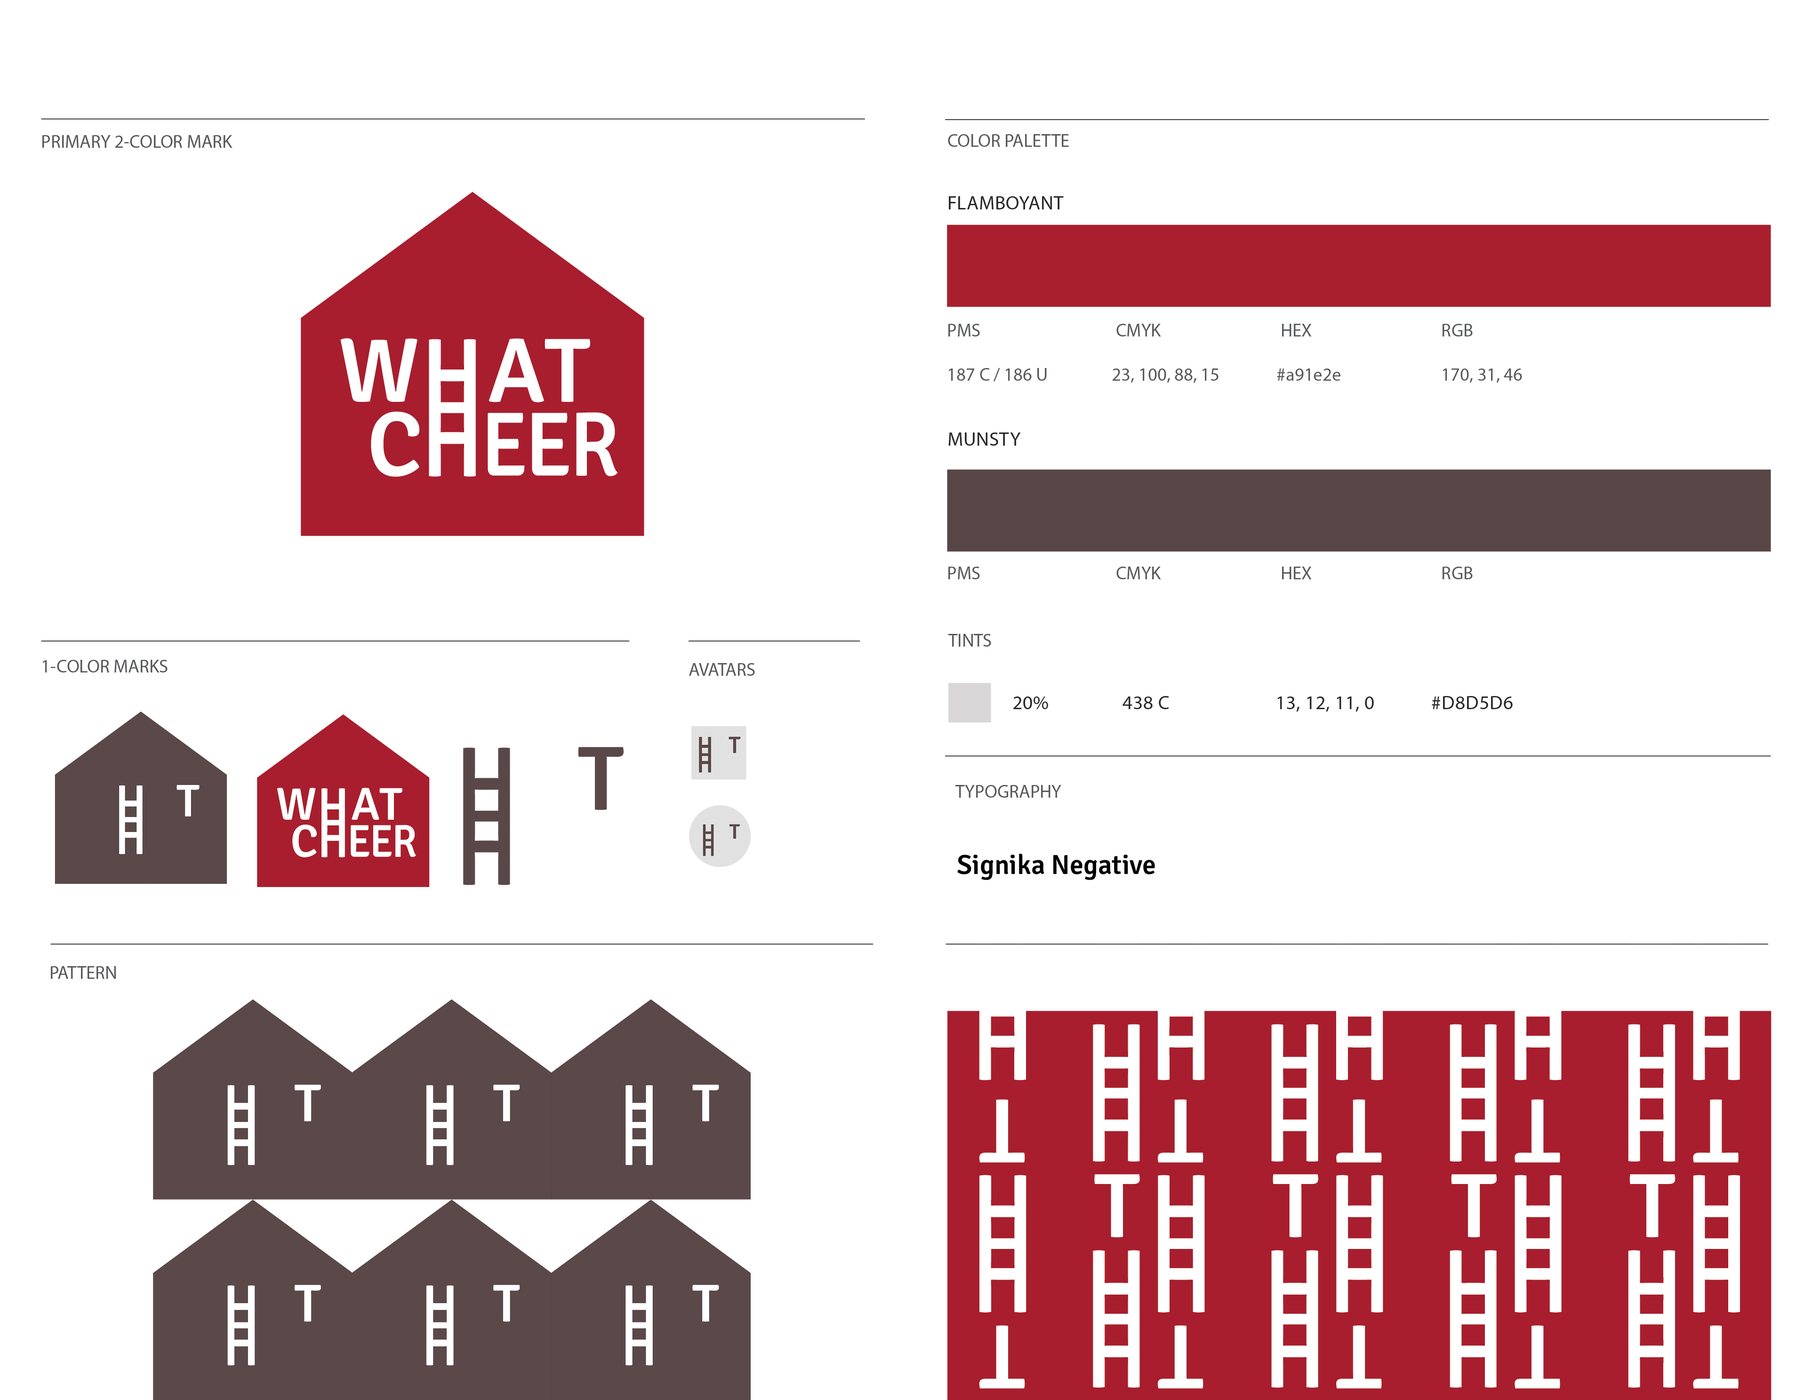
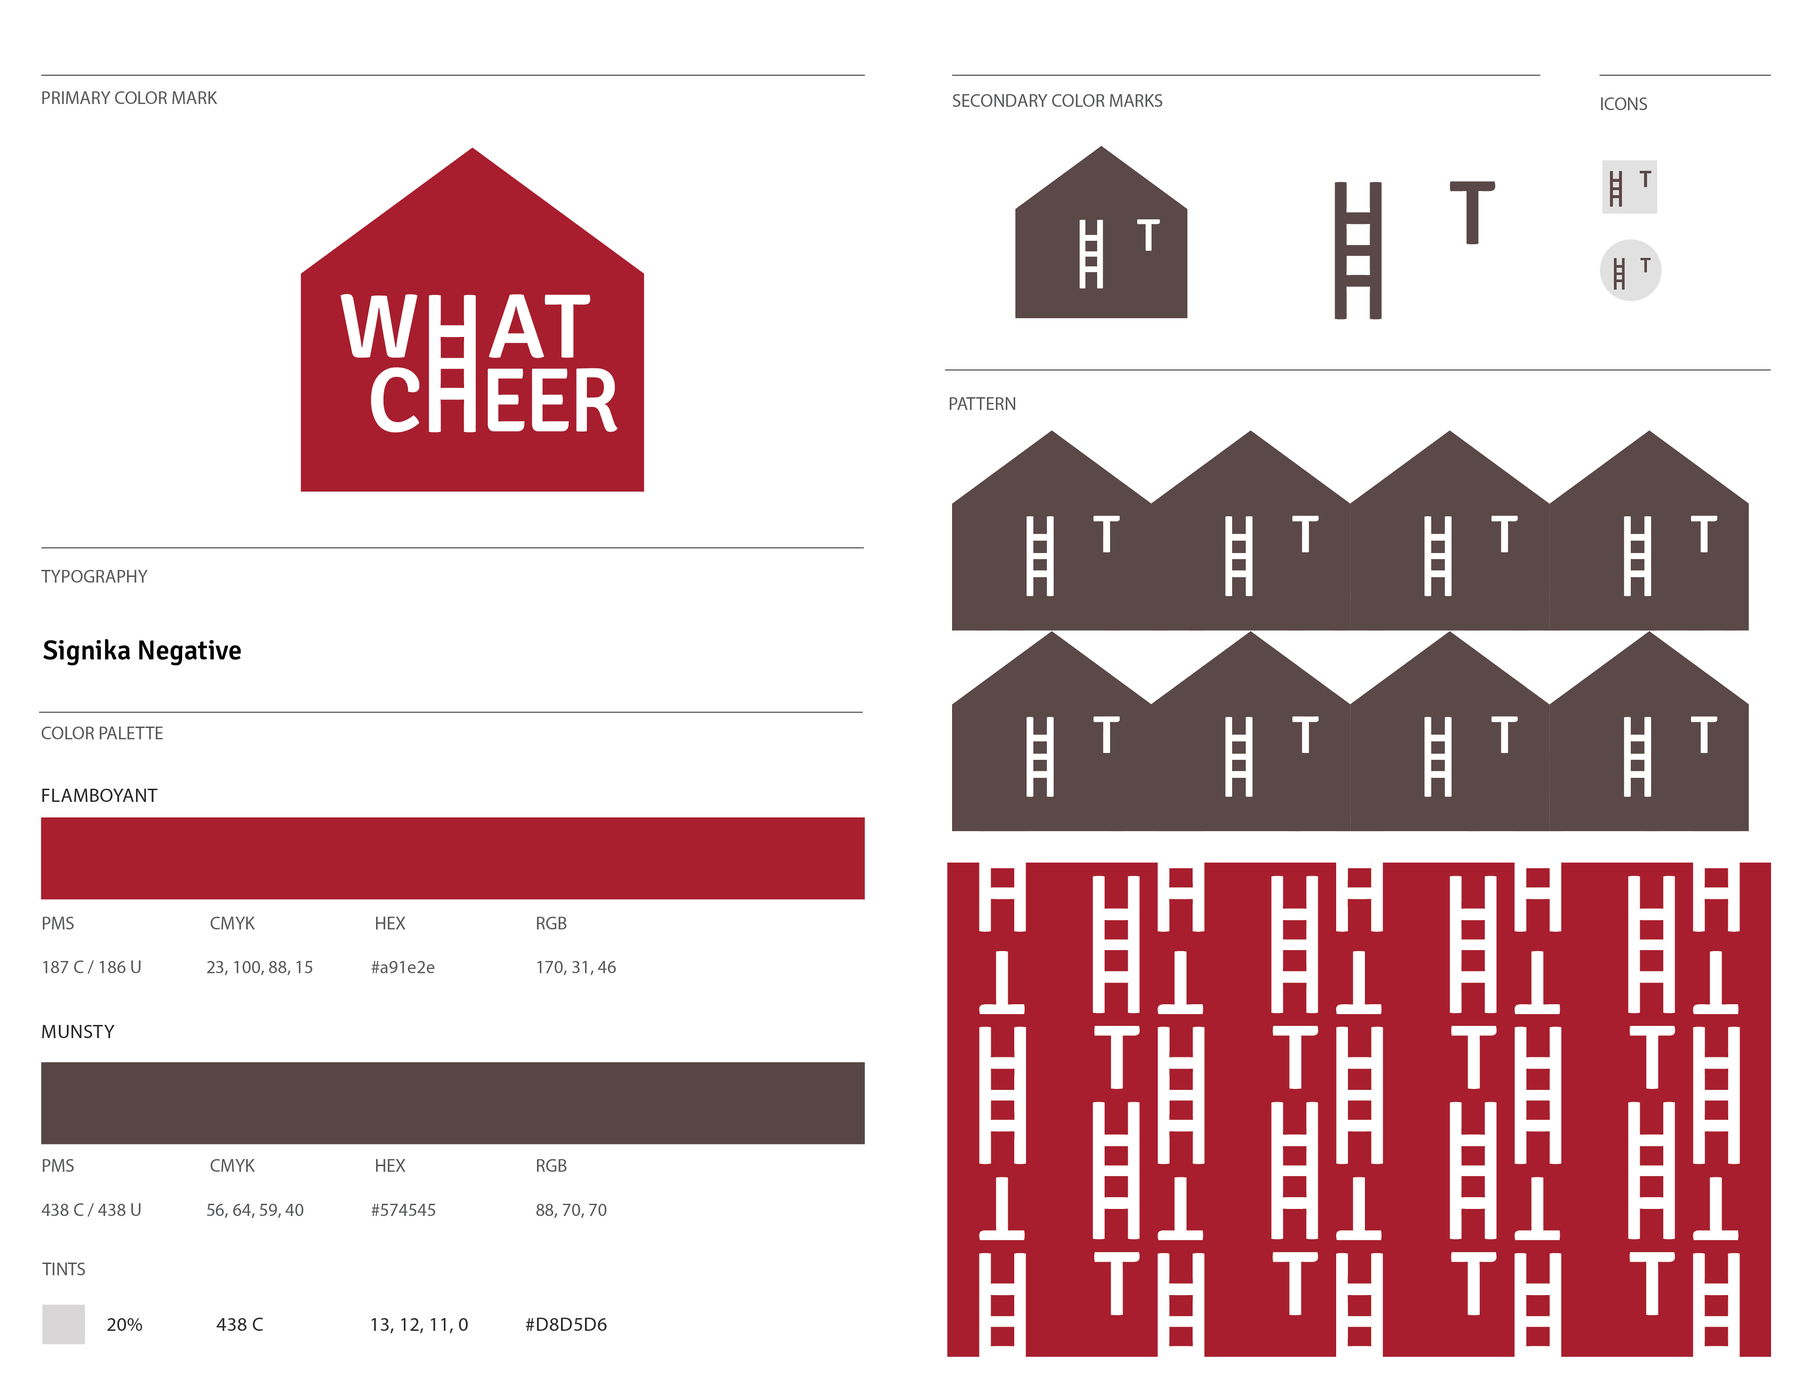
d

diff --git a/poshmark.html b/poshmark.html
@@ -1,0 +1,137 @@
+<!DOCTYPE html>
+<html>
+<head>
+	<link href="style.css" type="text/css" rel="stylesheet">
+  <meta name="viewport" content="width=device-width, initial-scale=1">
+<body>
+ <!---Navigation Bar--->
+        <div id="navbar2">
+          <a class="active" href= "index.html">WORK </a>
+           <a class="active" href= "about.html">ABOUT </a>
+           <a class="active" href="mailto:soeun0603@gmail.com"> CONTACT</a>
+        </div>
+
+<!---Header--->
+<div class="main2">
+  <div class=row>
+<img src="images/poshmark/redesign1.jpg" alt="2">
+  <div class=title>
+  	<h1 class= header><a href= "index.html"> POSHMARK-REDESIGN</a></h1>
+    <h2 class=subheader><div class="subheader">2019</h2>
+  </div>
+
+  <div class= description>
+	<h3> We were tasked to redesign several pages of a website to improve their usability, visual
+design, and responsiveness. We began by analyzing the usability of the original interface using the criteria from <a class="active" href="http:usability.gov" target="_blank">usability.gov</a>intuitive design, ease of learning, efficiency of use, and memorability.
+	</h3>
+  <br><br>
+<h2>UI/UX Design, Redesign</h2>
+</div>
+<br> <br> 
+<!---Portfolio--->
+
+<br><br>
+<h1>IDEATION</h1>
+<div class=row>
+  <div class=two>
+<h3><img src="images/poshmark/idea.jpg" alt="idea" style="width:100%; height:100%"></div>
+  <div class=two>
+  <h3><img src="images/poshmark/wireframe.png" alt="wireframe" style="width:100%; height:100%"></div></div>
+    <div class=row>
+      <img src="images/poshmark/styleguide.jpg" alt="styleguide" style="width:100%; height:100%"></div>
+      <br><br>
+  <h1>PROBLEM</h1>
+<h3>The biggest problem we tackled was the reorganization of information from the Poshmark website. There were two main issues: 
+  <li>It was combining a social media website and clothing website interface, which made it confusing for first-time users.</li>
+  <li>The listings were organized through “Posh Markets” and also categorizing tabs at the top of the page, which is repetitive.</li> 
+</h3>
+<br><br>
+<h1>GOAL</h1>
+<h3>Our main goals with the redesign are as follows:
+<li>Clear distinction between social media-esque feed and listings.</li>
+<li>Reduce the two forms of organization into one.</li>
+<li>Minimalist, clean design that is intuitive and memorable.</li>
+</h3>
+<br><br>
+<div class=row>
+      <img src="images/poshmark/personas.jpg" alt="personas" style="width:100%; height:100%"></div>
+  <h1>PROTOTYPING</h1>
+  <h3><li>Landing/sign-in page with Google and Facebook login features</li>
+  <li>Sign up page - “Posh Parties” description for first-time users</li>
+  <li> Redesigned home page. The “Feed” tab is where you can view accounts that you follow. “Posh Market” is replaced by “Filter by” for clarification.</li>
+  <li>"Listings" tab, where all listings on Poshmark are available. This page shows the listings under "All Categories".</li>
+  <li>Options in the “Filter by” dropdown menu (originally “Posh Market”).</li>
+  <li>The next set of filters in the dropdown menu is triggered by hovering.</li>
+  <li>Redesigned user profile. Followers/following and listings/shares are now in separate lines and are clearly distinguishable.</li></h3>
+  <div class=row>
+<img src="images/poshmark/redesign1.jpg" alt="redesign" style="width:100%; height:100%">
+</div>
+<div class=row>
+<img src="images/poshmark/redesign2.jpg" alt="redesign" style="width:100%; height:100%">
+</div>
+ <div class=row>
+  <div class=two>
+<img src="images/poshmark/redesign3.jpg" alt="redesign">
+</div>
+<div class=two>
+<img src="images/poshmark/redesign4.jpg" alt="redesign">
+</div></div>
+<div class=row>
+<div class=two>
+<img src="images/poshmark/redesign9.jpg" alt="redesign">
+</div>
+<div class=two>
+<img src="images/poshmark/redesign10.jpg" alt="redesign" style="width:100%; height:100%">
+</div></div>
+<div class=row>
+  <img src="images/poshmark/redesign6.jpg" alt="redesign" style="width:100%; height:100%">
+</div>
+
+
+<h1> Responsive Page.</h1>
+<h3>We used a different grid for  mobile version for better organization. The grids used for the mobile version are:
+<li>Margin-left: 20px</li>
+<li>Margin-right: 20px</li>
+<li>Font size: 21px for heading, 16px for body text</li>
+The layout of the image and text boxes are stacked on top of each other. The navigation bar stays sticky on the top.</h3>
+
+<div class=row>
+<div class=two>
+<img src="images/poshmark/redesign7.jpg" alt="redesign"style="width:60%; height:60%">
+</div>
+<div class=two>
+<img src="images/poshmark/redesign8.jpg" alt="redesign"style="width:60%; height:60%">
+</div></div>
+
+ <h1>USABILITY TESTING</h1>
+ <h3><li>User 1 navigated through the interface as we intended. She likes how the redesign is simple and clean, and likes the new form of organization (markets). She thinks the icons at the bottom left should be moved to the top right. She says she was a little lost and didn’t know where to look at on the landing page.</li>
+  <li>User 2 mentions that she was confused by the 3-way split-screen layout. She says she was confused about the intention in general because she’s personally conditioned to separate social media and clothing website interfaces. She thinks the redesign is nice and less chaotic compared to the original.</li>
+  <li>User 3 prefers organization by category tabs at the top. She was confused about what “Parties” are, and also thinks that the icons at the bottom left should be moved to the top right. She thinks the redesign is better and simpler, and the original website is chaotic. She thinks the original website’s aesthetic and brand identity is somewhat boring, and seems to be targeted towards an older audience. She mentioned the incorporation of personalized profiles, such as tumblr’s customizable blogs.</li></h3>
+<div class=row>
+<div class=two>
+<img src="images/poshmark/usability2.jpg" alt="usability"style="width:100%; height:100%">
+</div>
+<div class=two>
+<img src="images/poshmark/usability1.jpg" alt="usability"style="width:100%; height:100%">
+</div></div>
+<br><br>
+ <h1>REVISION</h1>
+ <h3>There is still confusion on where to click on the landing page. Possibily, we can show what are Parties and Brands with visual representation or icons underneath the menu. The Bundles icon can also have an intro animation of what it is for. With less clustering text orientation on mobile verison would be helping to see the contents more coherently.</h3>
+  
+<!-- <br><br><br> -->
+<!---Back to Menu--->
+<!-- <p><a href= "index.html"><div align="center"> &larr;</div></p> -->
+<script>
+var prevScrollpos = window.pageYOffset;
+window.onscroll = function() {
+var currentScrollPos = window.pageYOffset;
+  if (prevScrollpos > currentScrollPos) {
+    document.getElementById("navbar2").style.top = "0";
+  } else {
+    document.getElementById("navbar2").style.top = "-50px";
+  }
+  prevScrollpos = currentScrollPos;
+}
+</script>
+</body>
+</html>

diff --git a/checkup.html b/checkup.html
@@ -21,7 +21,7 @@
   </div>
 
   <div class= description>
-	<h3> Most of the patients with mental disorder do not recognize the fact that they are suffering such illness. As people are more aloof to others, patients tend to lose the "golden time" to cure disorders. With the personal checkup app that enables the patients to communicate with doctors, therapists, and other patients directly, it helps the process more convenient. Especially for those who suffer social interaction with the outside world, they can easily set up appointments and service through this app.
+	<h3> People who experience mental disorders often do not receive enough support to lessen the pain they go through. Most notably, selected have responded that their closest companions, families, or friends are unaware of the fact that the person has a mental illness. The personal checkup app enables the patients to communicate with doctors, therapists, and other patients directly, it helps the process more convenient. Especially for those who suffer social interaction with the outside world, they can easily set up appointments and service through this app.
 	</h3>
   <br><br>
 <h2>UI/UX Design</h2>
@@ -39,17 +39,17 @@
   	<img src="images/mental/diagram.jpg" alt="diagram">
   </div></div>
   <h1>PROBLEM</h1>
-<h3>Nowadays living in a busy society, a lot of people and entertainers experience mental disorders more easily and frequently. Most of them do not receive adequate treatment, and they miss the Golden Time and fall into chronic mental illness. The lack of information and inconvenience of seeking help cause the patients to hide their feelings and emotions.</h3>
+<h3>In such fast-changing society, it became common to experience mental disorders frequently as people including celebrities encounter in a lot of social situations. In many cases, they do not receive adequate treatment, miss the Golden Time and fall into chronic mental illness. The lack of information and inconvenience of seeking help cause the patients to hide their feelings and emotions. A continous treatment is needed to lessen the pain.</h3>
 <img src="images/mental/stylesheet.jpg" alt="stylesheet">
 <img src="images/mental/icon.jpg" alt="icon">
 <img src="images/mental/search.jpg" alt="search">
 <img src="images/mental/2.jpg" alt="2">
 <h1>GOAL</h1>
-<h3>The app aims to ease the understanding of the disease and make the treatment process easier to help patients. For those who are either hestitant to share or unaware of their situation, this app will be help them keep personal information. With social interaction, Checkup encourages to go through the struggle with others.</h3>
+<h3>The app aims to provide a better understanding of what the disease is about and make the treatment process go more efficient. For those who are hestitant to share or unaware of their situations, this app will help them by securing personal information. With social interaction with other patients around, Checkup encourages to help each others.</h3>
   	<img src="images/mental/3.png" alt="3">
   	<img src="images/mental/ui.jpg" alt="ui">
  <h1>SERVICE</h1>
- <h3>Through several self-tests and various reviews, we will try to find the treatment that works best for you. The one-on-one chat service enables real-time equivalents with dedicated doctors and emergency situations, and creates an environment that encourages energy through communication with patients in the immediate area. The entertainment element enables to share freely the recommended playlists and books from professionals or those who share similar mental diorders.</h3>
+ <h3>Through several self-tests and various reviews, the app aims to find the treatment that works best for you. The one-on-one chat service enables real-time equivalents with dedicated doctors and emergency situations, and creates an environment that encourages energy through communication with patients in the immediate area. The entertainment element enables to share freely the recommended playlists and books from professionals or those who share similar mental diorders.</h3>
   <div class=row>
   <div class=two>
 <img src="images/mental/checkup.gif" alt="gif" style="width:70%; height:70%">

diff --git a/to forget list.html b/to forget list.html
@@ -30,7 +30,7 @@
     <h2 class=subheader><div class="subheader">2019</h2>
   </div>
   <div class= description>
-<h3> There is a common term used in Korea called “이불 킥” which literally means kick blankets. It is used for a situation when someone is going to sleep and suddenly remembers an embarrassing moment then he or she kicks the blanket unconsciously due to shame or regret.
+<h3> There is a common term used in Korea called “이불 킥” which literally means kick blankets. It is used for a situation when someone is going to sleep and suddenly remembers an embarrassing moment then he or she kicks the blanket unconsciously due to shame or regret. To Forget List mimics the desire of erasing and getting rid of certain memories.
 <br><br>
 </h3>
 <h2>Coding, Product Design</h2>
@@ -47,7 +47,7 @@
     Your browser does not support the video tag.
 </video>
 </div>
-<h3>According to an article I read, scientists had found a brain that is transparent as Jell-O so that networks of neurons that receive and send information can be highlighted in stunning color and viewed in their three-dimensional complexity without slicing up the organ. </h3>
+<h3>The particles creates a visual system of a conceptual idea of trying to forget a section of a memory. According to an article I read, scientists had found a brain that is transparent as Jell-O so that networks of neurons that receive and send information can be highlighted in stunning color and viewed in their three-dimensional complexity without slicing up the organ. Inspired by the word "brain that is transparent as Jello-O", the content inside works as a storage for human memory systems. Similar to computer hardrives, human brain acts as a 'wet-drive' that is capable of capturing an array of memories.</h3>
 <div class="row">
   <div class="column2">
      <img src="images/to forget list/head1.jpg" alt="4" style="width:100%">

diff --git a/color theory.html b/color theory.html
@@ -35,7 +35,7 @@
   </div>
 
   <div class= description>
-<h3>Each design is printed on vinyl paper to give a sense of layering and outlining. The practice of making different color palette for each design can be seen. Multiple unexplored colors are incorporated throughout the color project. Focusing on the combination of colors, these designs were created with untraditional method of using Rhinoceros, 3D rendering software to 2D project in the form of a booklet.  </h3>
+<h3>Each design is printed on vinyl paper to give a sense of layering and outlining. The practice of making different color palette for each design can be found. Specific color palettes are incorporated throughout this project. Focusing on the combination of colors, these designs were created with a new approach of using Rhinoceros, 3D rendering software to a 2D project in the form of a booklet.  </h3>
 <br><br></h3>
 <h2>Print Design, Color</h2>
 <br> <br> 

diff --git a/story with color.html b/story with color.html
@@ -26,7 +26,7 @@
   </div>
 
   <div class= description>
-<h3> Using the emotions and memories depicted in the photo of me when I was a baby, I created an abstract composition using only colors. The story takes place in Hawaii my parents were cleaning the bed sheets and me doodling inside the drawer. The youthful and playful tone is the dominant element in the design. Play Doh looking shapes really bring back my childhood. 
+<h3> Using the emotions and memories captured in the photo of me when I was a baby, I created an abstract composition using only colors. The story takes place in Hawaii when my parents were cleaning the bed sheets and me doodling inside the drawer. The naiveness and playful tone of me as a child are the dominant elements in the design. Play-Doh looking shapes really bring back my childhood. 
 <br><br>
 <h2>Poster Design, Color</h2>
 <br> <br>

diff --git a/im curious.html b/im curious.html
@@ -25,7 +25,7 @@
   </div>
 </div>
   <div class=title>
-    <h1 class= header><a href= "index.html"> WHY DO MOSQUITO BITES ITCH?</a></h1>
+    <h1 class= header><a href= "index.html"> PART 1: MOSQUITO BITES</a></h1>
     <h2 class=subheader><div class="subheader">2019</h2>
   </div>
 
@@ -37,16 +37,15 @@
 <br> <br> 
 
 <!---Portfolio--->
-<br><br><br><br>
-<div class=row>
-<img src="images/curious/mockup.jpg" alt="mockup">
-<br><br><br><br>
-  <div class="two">
+  <div class="row">
+  <img src="images/curious/1.png" alt="google search">
+</div>
+  <div class="row">
 <img src="images/curious/common words.jpg" alt="idea board">
 </div>
-  <div class="two">
-  <img src="images/curious/1.png" alt="google search">
-</div></div>
+<div class=row>
+<img src="images/curious/mockup.jpg" alt="mockup">
+</div>
 <!-- <br><br><br><br><br><br> -->
 
 <!---Back to Menu--->

diff --git a/whatcheer.html b/whatcheer.html
@@ -22,7 +22,7 @@
   </div>
 
   <div class= description>
-<h3> What Cheer is a fictitious hardware store located in Providence, Rhode Island. I wanted to represent the logo identity with an image that can be easily associated. The logo portrays the form of a house with ladder that acts as text, 'H'. 
+<h3> The task was to create a brand identity for What Cheer hardware store located in Providence, Rhode Island. I wanted to represent the logo with an image that can be easily associated to a hardware store. The logo portrays the form of a house with 'H' that acts as a ladder. 
 </h3>
 </div><br><br>
 <h2>Brand Identity, Motion</h2>
@@ -37,6 +37,9 @@
 </div>
 <div class=row>
 <img src="images/whatcheer/2.jpg" alt="2">
+</div>
+<div class=row>
+<img src="images/whatcheer/7.jpg" alt="1">
 </div>
 <div class=row>
 <img src="images/whatcheer/5.jpg" alt="3">

diff --git a/lemlem.html b/lemlem.html
@@ -20,7 +20,7 @@
     <h2 class=subheader><div class="subheader">2019</h2>
   </div>
   <div class= description>
-<h3>As a Product Development and Marketing intern at lemlem, I was in charge of creating website banners, newsletters, and visual products that promote the mission of the company. Opportunity to work with professional models on site and other designers was an interesting experience. These are some works that are approved to post.</h3>
+<h3>As a Product Development and Marketing intern at lemlem, I was in charge of creating website banners, newsletters, and visual products that promote the mission of the company. Opportunity to work with professional models on site and other designers was an interesting experience. These are some of the works that are approved to post.</h3>
 <br><br></h3>
 <h2>Brand Identity</h2>
 <br> <br> 

diff --git a/calendar.html b/calendar.html
@@ -25,7 +25,7 @@
     <h1 class= header>DAYS CALENDAR</h1>
     <h2 class=subheader><div class="subheader">2019</h2>
   <div class= description>
-<h3>Moving away from the traditional format of a calendar, this calendar is only consisted of Days. Each month is coded with a distinct pattern of numbers. One can easily find the days of Monday, Tuesday, Wednesday, and so on.</h3>
+<h3>Opposed to the standard format of a calendar, this calendar is only consisted of Days. Each month is coded with almost like a pattern of numbers which are extracted from each month. For instance, the first panel is consisted of the days of Monday of 12 monthes.</h3>
 <br><br></h3>
 <h2>Print Design, Typography</h2>
 <br> <br> 

diff --git a/im curious2.html b/im curious2.html
@@ -22,7 +22,7 @@
 <img src="images/curious2/gif.gif" alt="gif">
 </div>
   <div class=title>
-    <h1 class= header> WHY DO MOSQUITO BITES ITCH?</h1>
+    <h1 class= header>PART 2: MOSQUITO BITES</h1>
     <h2 class=subheader><div class="subheader">2019</h2>
   </div>
 
@@ -43,6 +43,9 @@
 </div>
 <div class=row>
 <img src="images/curious2/billboard1.jpg" alt="1">
+</div>
+ <div class="row">
+  <img src="images/curious/1.png" alt="google search">
 </div>
 <!-- <div class=row>
 <img src="images/curious2/ying and yang.jpg" alt="1">

diff --git a/style.css b/style.css
@@ -153,6 +153,7 @@ html, body {
   padding-top: 50px;
   margin-bottom: 50px;
   width: 90%;
+  font-weight:normal;
   text-align: left;
   position: relative;
 }
